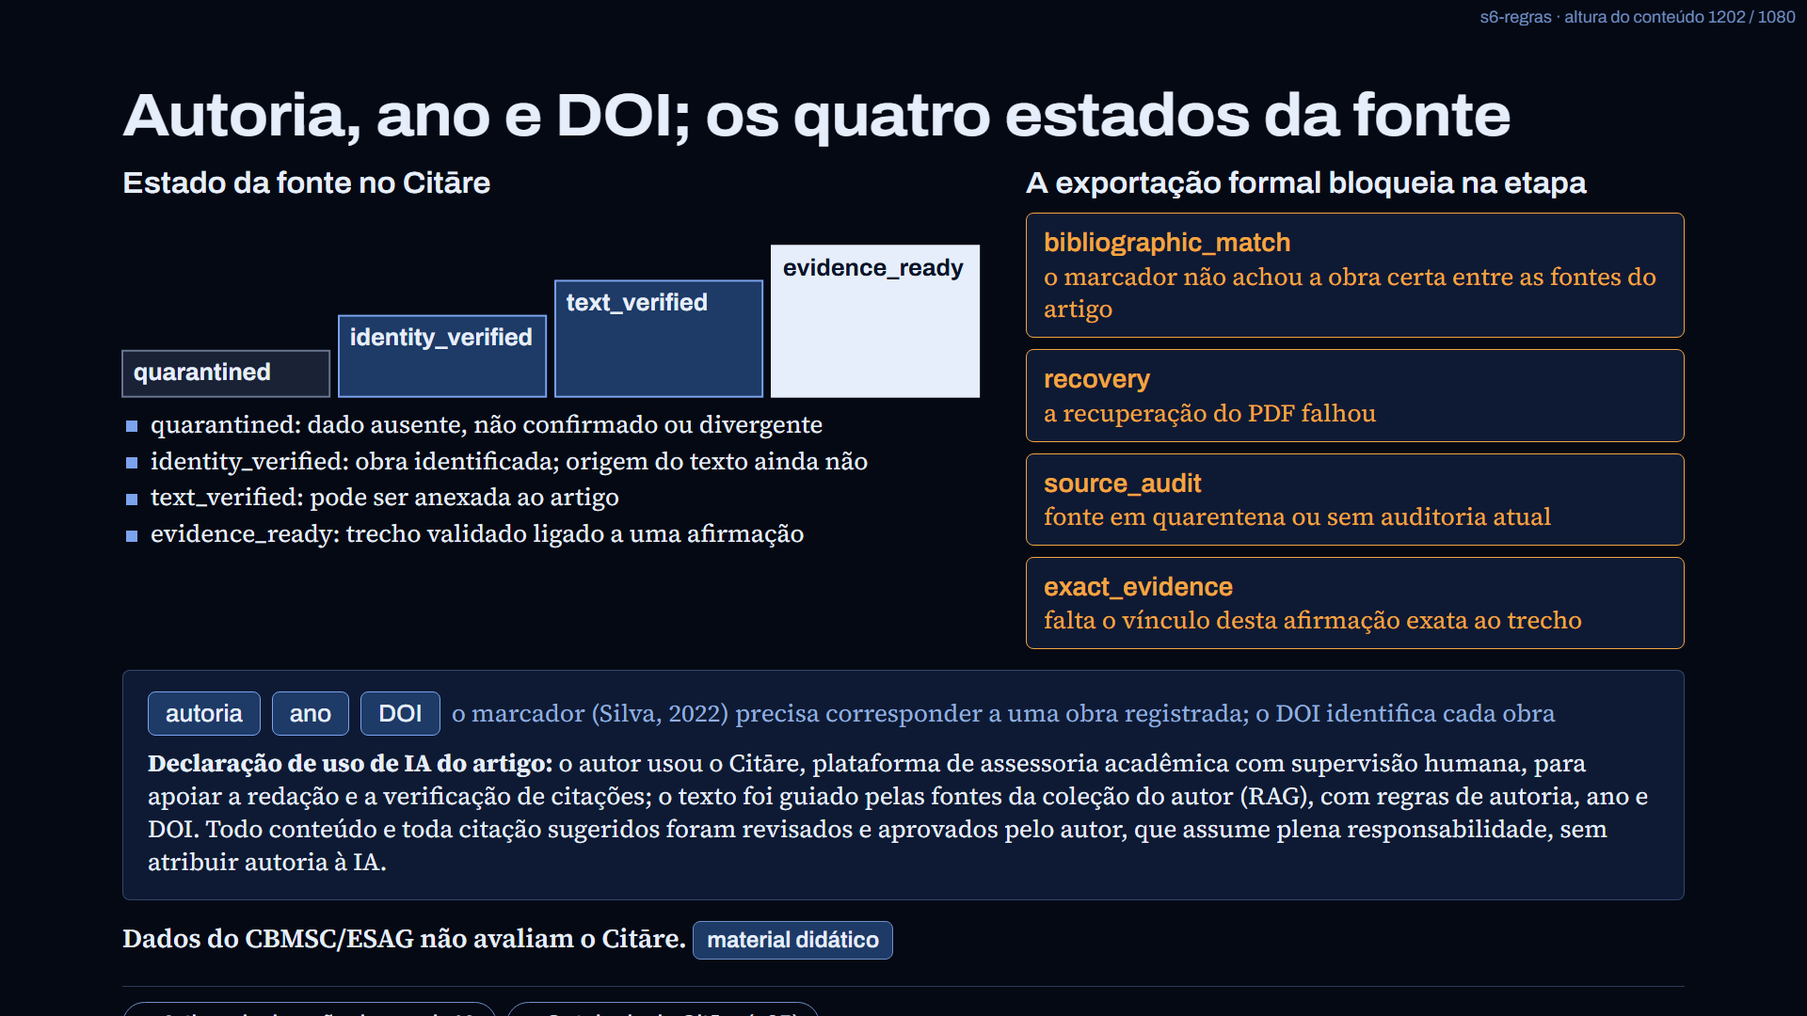
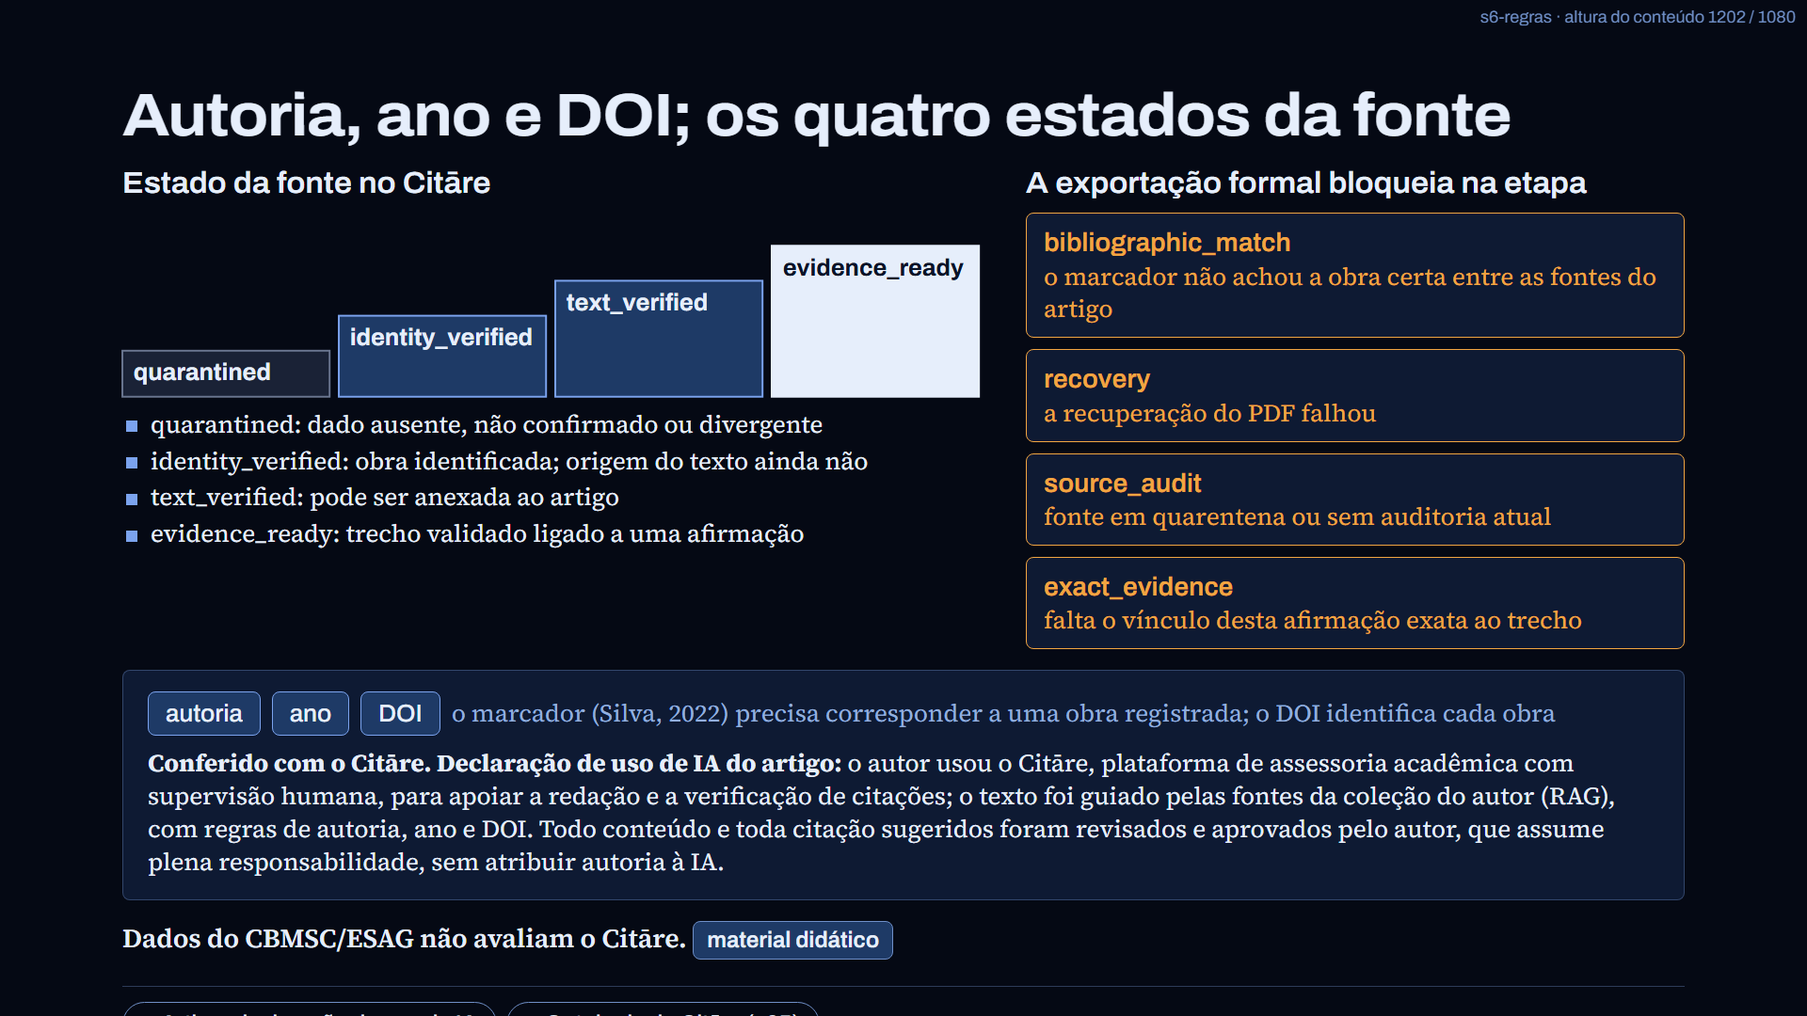
Painéis: quem corrigiu a cena 2b, método do arXiv (≈446), calendário ilustrativo, ponte CALAIS=harness vertical e reserva r1-respostas

Changed region(s): [[0.0625, 0.7333, 0.9062, 0.8556]]

diff --git a/web/paineis.js b/web/paineis.js
@@ -383,7 +383,7 @@
       ['Cena 2b: rascunho do modelo local', '<b>F ∧ F ∧ F</b>', '2 citações bloqueadas', '<span class="block">bloqueado (exit 2)</span>'],
       ['Laço local, rodada 1', '<b>F ∧ F ∧ F</b>', '3 citações bloqueadas', '<span class="block">bloqueado (exit 2)</span>'],
       ['Laço local, rodadas 2 e 3', '<b>F ∧ V ∧ V</b>', '3 e depois 1 citação bloqueada', '<span class="block">bloqueado (exit 2)</span>'],
-      { cls: 'dest', c: ['Cena 2b: após a correção', '<b>V ∧ V ∧ V</b>', 'todas as citações na ontologia', 'admissível; aguarda o humano'] }
+      { cls: 'dest', c: ['Cena 2b: após a correção (modelo de fronteira)', '<b>V ∧ V ∧ V</b>', 'todas as citações na ontologia', 'admissível; aguarda o humano'] }
     ]) +
     foot([F('art-eq', 'Artigo: Equação 2'), F('hnv-cena2b', 'Cena 2b'), F('hnv-laco', 'Laço local')],
       'Valores E, N e T lidos dos logs reais de 25/10/2026 (hnv-demo). Bloqueio exige falha em ao menos um dos três.')
@@ -474,7 +474,7 @@
     '<div class="card"><h3>CBMSC</h3><p class="mut">processo público-operacional</p></div>' +
     '<div class="card"><h3>ESAG/UDESC</h3><p class="mut">processo público-acadêmico de seleção</p></div>' +
     '<p>' + sel('exploratório') + '</p></div></div>' +
-    '<p class="nota">A demonstração mostra que as partes funcionam juntas; efeito e comparação com outras abordagens exigem estudo próprio.</p>' +
+    '<div class="card" style="border-color:var(--az)"><p style="font-size:28px"><b>CALAIS = harness vertical.</b> O artigo #160 não usa a palavra “harness”; em 2026, a engenharia de agentes passou a chamar assim o conjunto de regras e ferramentas em torno do modelo. ' + F('bockeler2026', 'Böckeler (2026)') + ' ' + F('galster2026', 'Galster et al. (2026)') + '</p></div>' +
     foot([F('art-arq', 'Artigo: Seções 1 e 3.1'), F('art-escopo', 'Artigo: escopo da evidência')], 'Definição dos três níveis conforme a Introdução do artigo.')
   );
 
@@ -568,7 +568,7 @@
       '<p><b>Ontologia:</b> “especificação explícita e formal de uma conceitualização compartilhada” (Studer, Benjamins e Fensel, 1998, a partir de Gruber, 1993).</p>' +
       '<p><b>T-box</b> (terminologia): as classes e as relações. Três grupos: Conteúdo acadêmico, Evidência e fonte, Controle.</p>' +
       '<p><b>A-box</b> (asserções): as instâncias e suas ligações, como Artigo 42 e Auditoria 7.</p></div></div>' +
-      '<p class="nota"><b>Dados do CBMSC/ESAG não avaliam o Citāre.</b> Instâncias do desenho são fictícias, para ensinar a leitura. ' + sel('material didático') + '</p>' +
+      '<p class="nota"><b>O artigo foi redigido e conferido com o Citāre, com revisão humana.</b> Dados do CBMSC/ESAG não avaliam o Citāre. Instâncias do desenho são fictícias. ' + sel('material didático') + '</p>' +
       foot([F('ont-citare', 'Ontologia do Citāre (v05)'), F('studer1998', 'Studer et al. (1998)'), F('art-citare', 'Artigo: declaração de uso')],
         'Atividade 1 de Desenvolvimento de Ontologias, v05 (30/09/2026). O desenho reproduz a cadeia e a árvore da atividade; as classes intermediárias são didáticas.')
     );
@@ -592,7 +592,7 @@
       return '<div class="card block" style="padding:12px 18px"><p class="block sans" style="font-weight:600;font-size:28px">' + b[0] + '</p><p style="font-size:26px">' + b[1] + '</p></div>';
     }).join('') + '</div></div>' +
     '<div class="card" style="display:grid;gap:12px"><div style="display:flex;gap:12px;flex-wrap:wrap;align-items:center"><span class="chip ok">autoria</span><span class="chip ok">ano</span><span class="chip ok">DOI</span><span class="mut" style="font-size:26px">o marcador (Silva, 2022) precisa corresponder a uma obra registrada; o DOI identifica cada obra</span></div>' +
-    '<p style="font-size:26px"><b>Declaração de uso de IA do artigo:</b> o autor usou o Citāre, plataforma de assessoria acadêmica com supervisão humana, para apoiar a redação e a verificação de citações; o texto foi guiado pelas fontes da coleção do autor (RAG), com regras de autoria, ano e DOI. Todo conteúdo e toda citação sugeridos foram revisados e aprovados pelo autor, que assume plena responsabilidade, sem atribuir autoria à IA.</p></div>' +
+    '<p style="font-size:26px"><b>Conferido com o Citāre. Declaração de uso de IA do artigo:</b> o autor usou o Citāre, plataforma de assessoria acadêmica com supervisão humana, para apoiar a redação e a verificação de citações; o texto foi guiado pelas fontes da coleção do autor (RAG), com regras de autoria, ano e DOI. Todo conteúdo e toda citação sugeridos foram revisados e aprovados pelo autor, que assume plena responsabilidade, sem atribuir autoria à IA.</p></div>' +
     '<p class="nota"><b>Dados do CBMSC/ESAG não avaliam o Citāre.</b> ' + sel('material didático') + '</p>' +
     foot([F('art-citare', 'Artigo: declaração de uso de IA'), F('ont-citare', 'Ontologia do Citāre (v05)')],
       'Declaração traduzida do artigo (seção “AI use disclosure”). Estados e etapas: Atividade de Ontologia v05.')
@@ -633,9 +633,10 @@
       T('CBMSC: o que os logs de envio mostram', 'Janeiro a agosto de 2026, artefato de envio de mensagens.') +
       '<div class="cols c3" style="align-items:end">' +
       '<div><span class="big" style="font-size:96px">' + cnt(9054, 'k') + '</span><p class="mut">registros de envio</p></div>' +
-      '<div><span class="big" style="font-size:96px">' + cnt(191) + '</span><p class="mut">dias, de 28/01 a 07/08/2026</p></div>' +
+      '<div><span class="big" style="font-size:96px">~' + cnt(191) + '</span><p class="mut">dias, de 28/01 a 07/08/2026</p></div>' +
       '<div><span class="big" style="font-size:96px;color:#C2CBDD">' + cnt(2813, 'k') + '</span><p class="mut">envios sem sucesso</p></div></div>' +
-      svg(1660, 104, cells + labs + '<text class="m" x="0" y="92" style="font-size:26px;display:none"></text>', 'Calendário de cerca de 191 dias, de 28 de janeiro a 7 de agosto de 2026') +
+      svg(1660, 104, cells + labs, 'Calendário ilustrativo de cerca de 191 dias, de 28 de janeiro a 7 de agosto de 2026') +
+      '<p class="mut" style="font-size:26px;margin-top:-10px">Calendário ilustrativo: só o total do período (9.054 em ~191 dias); não há dado por dia. ' + sel('ilustrativo', 'sol') + '</p>' +
       '<div style="display:grid;gap:10px"><div class="bar-trk" style="height:50px"><i class="bar aco" style="left:0;width:' + (100 - seg * 100).toFixed(2) + '%;--d:.5s"></i>' +
       '<i class="bar cz" style="left:' + (100 - seg * 100).toFixed(2) + '%;width:' + (seg * 100).toFixed(2) + '%;--d:1.2s"></i></div>' +
       '<p class="mut" style="font-size:26px">Cinza: 2.813 sem sucesso (' + pct(seg) + '% dos 9.054). Azul: os demais 6.241 (diferença, cálculo do autor). Sem sucesso não é bloqueio.</p></div>' +
@@ -645,7 +646,7 @@
       '<div class="card"><span class="val">' + cnt(1018, 'k') + '</span><p style="font-size:26px">erros de aquecimento</p></div>' +
       '<p class="nota" style="font-size:27px"><b>Processos diferentes, não somados.</b> Nenhum evento classificado como banimento ou restrição de linha pela Meta foi localizado. Isso não é risco zero: não há campo exclusivo para detectar todo banimento.</p></div>' +
       '<p>' + sel('exploratório, SC') + '</p>' +
-      foot([F('art-logs', 'Artigo: logs do CBMSC'), F('art-escopo', 'Artigo: escopo')], 'Seção 4.1 do artigo. Calendário sem dado por dia: o artigo informa só o total do período.')
+      foot([F('art-logs', 'Artigo: logs do CBMSC'), F('art-escopo', 'Artigo: escopo')], 'Seção 4.1 do artigo: de 28/01 a 07/08 são 192 dias contando as duas pontas; o artigo diz “aproximadamente 191”.')
     );
   })();
 
@@ -660,7 +661,7 @@
       dots += '<circle class="fl pp" style="--d:' + (0.4 + i * .25) + 's" cx="' + X(s) + '" cy="' + (110 - (seen[k] - 1) * 30) + '" r="13"/>';
     });
     P['s7-nasa'] = body(
-      T('NASA-TLX bruto: seis registros de tarefas', 'Escala de 0 a 100: quanto menor, menor a carga percebida.') +
+      T('NASA-TLX bruto: seis registros de tarefas', 'TLX bruto = (1/6) Σ s<sub>i</sub>, sobre as seis dimensões (0 a 100); quanto menor, menor a carga percebida.') +
       svg(1660, 200,
         ticks + '<line class="ln" x1="40" y1="150" x2="1620" y2="150"/>' + dots +
         '<line class="ln az dr" pathLength="1" style="--d:1.9s" x1="' + X(6.94) + '" y1="40" x2="' + X(6.94) + '" y2="150"/>' +
@@ -733,7 +734,7 @@
       '<div class="card"><h3>Rodada 2</h3><p style="display:grid;gap:8px;justify-items:start"><span class="chip err">art. 37, XXXIII</span><span class="chip err">Decreto 4.653/2002</span><span class="chip">decisão do STJ sem número</span></p></div>' +
       '<div class="card"><h3>Rodada 3</h3><p style="display:grid;gap:8px;justify-items:start"><span class="chip err">art. 37, XXI, “proíbe o nepotismo”</span><span class="chip">Lei 8.112/1990</span><span class="chip">ADI 2.958</span></p></div></div>' +
       '<p class="nota"><b>Em âmbar:</b> inexistente ou com conteúdo falso. <b>Em cinza-azulado:</b> real, mas sem base ou não conferível. XXXIII só aparece nas rodadas 1 e 2.</p>' +
-      foot([F('hnv-cena1', 'Checagem manual (cena 1)'), F('cf-art37', 'Constituição, art. 37')], 'Fontes: checagem manual de 25/10/2026 e texto do art. 37 no Planalto. Modelo local de 3 bilhões de parâmetros, sem harness.')
+      foot([F('hnv-cena1', 'Checagem manual (cena 1)'), F('cf-art37', 'Constituição, art. 37')], 'Fontes: checagem manual de 25/10/2026 e texto do art. 37 no Planalto. Modelo local 3B (qwen2.5:3b), sem harness; ele errou nas três rodadas.')
     );
   })();
 
@@ -773,10 +774,10 @@
       svg(468, 150, sq, 'Dezoito quadrados: 3 normas, 12 dispositivos, 1 súmula e 2 precedentes') +
       '<p style="font-size:27px">3 normas · 12 dispositivos · 1 súmula · 2 precedentes ' + sel('pendente de validação') + '</p>' +
       '<h3>Limites</h3><ul class="pt-list" style="gap:8px">' +
-      '<li style="font-size:28px"><b>Confere citações, não raciocínio.</b></li>' +
-      '<li style="font-size:28px"><b>Bloqueado não é falso:</b> a Resolução 7/2005 existe, mas está fora da ontologia.</li>' +
-      '<li style="font-size:28px">Referência vaga (“uma decisão do STJ”) escapa.</li>' +
-      '<li style="font-size:28px">A cena 2b é induzida: o rascunho do modelo local foi entregue ao agente.</li></ul></div></div>' +
+      '<li style="font-size:26px"><b>Confere citações, não raciocínio.</b></li>' +
+      '<li style="font-size:26px"><b>Bloqueado não é falso:</b> a Resolução 7/2005 existe, mas está fora da ontologia.</li>' +
+      '<li style="font-size:26px">Referência vaga (“uma decisão do STJ”) escapa.</li>' +
+      '<li style="font-size:26px"><b>Quem corrigiu:</b> o 3B errou; na cena 2b (induzida), um modelo de fronteira (Sonnet, via Claude Code) corrigiu no mesmo harness. O 3B sozinho: 3, 3 e 1 bloqueadas; não liberado.</li></ul></div></div>' +
       foot([F('hnv-readme', 'README da demonstração'), F('hnv-ontologia', 'Ontologia (18 fontes)'), F('hnv-laco', 'Laço local')],
         'Laço local: citações bloqueadas 3, 3 e 1; encerrou como “bloqueado após o limite de rodadas”. Fluxo conforme o README (25/10/2026).')
     );
@@ -800,30 +801,30 @@
       ['Decreto 7.203/2010, art. 2º, III', 'DEC7203_art2_III', 'ok']
     ]) + '</div></div>' +
     foot([F('hnv-cena2b', 'Log real (cena 2b)'), F('prov-dm', 'W3C PROV-DM'), F('hnv-ontologia', 'Ontologia (18 fontes)')],
-      'Dados de logs/prov-20261025T192704-230.json. A máquina declara “admissível”; só a pessoa libera.')
+      'Dados de logs/prov-20261025T192704-230.json: rascunho do modelo local 3B, corrigido por um modelo de fronteira (Sonnet, via Claude Code) em cena induzida. A máquina declara “admissível”; só a pessoa libera.')
   );
 
   /* =========================================================
      SLIDE 9
      ========================================================= */
   (function () {
-    function row(label, v, max, cls, d, note) {
-      return '<div class="bar-row" style="grid-template-columns:330px 1fr 110px"><span style="font-size:27px">' + label + '</span>' +
+    function row(label, v, max, cls, d, pre) {
+      return '<div class="bar-row" style="grid-template-columns:420px 1fr 130px"><span style="font-size:26px">' + label + '</span>' +
         '<div class="bar-trk" style="height:42px"><i class="bar ' + cls + '" style="left:0;width:' + (v / max * 100).toFixed(1) + '%;--d:' + d + 's"></i></div>' +
-        '<span class="val" style="font-size:34px">' + cnt(v) + '</span></div>';
+        '<span class="val" style="font-size:34px">' + (pre || '') + cnt(v) + '</span></div>';
     }
     P['s9-metodo'] = body(
       T('Como foi feita a contagem de “harness” no arXiv', 'Contagem do autor em 25/10/2026, pela API pública; não é revisão sistemática.') +
-      '<div class="cols" style="grid-template-columns:640px 1fr;gap:44px;align-items:start">' +
-      '<ol class="pt-list" style="gap:16px;list-style:none">' +
-      '<li><b>1. Busca:</b> título com “harness”, na API do arXiv.</li>' +
-      '<li><b>2. Filtro:</b> só a palavra exata (a busca também traz “harnessing”).</li>' +
-      '<li><b>3. Sentido:</b> 2025 conferido título a título; 2026 por amostra de 25 títulos, todos de agentes.</li></ol>' +
-      '<div style="display:grid;gap:22px">' +
-      '<div style="display:grid;gap:10px"><h3>2025</h3>' + row('busca no título', 23, 500, 'cz', .3) + row('palavra exata', 4, 500, 'aco', .6) + row('sentido de agente', 3, 500, '', .9) + '</div>' +
-      '<div style="display:grid;gap:10px"><h3>2026 (até 25/10) ' + sel('contagem do autor') + '</h3>' + row('busca no título', 498, 500, 'cz', 1.2) + row('palavra exata', 446, 500, 'aco', 1.5) + row('sentido de agente', 446, 500, '', 1.8) + '</div>' +
-      '<p class="nota" style="font-size:26px">Em 2023 e 2024, a palavra exata não aparece. 2026 é parcial.</p></div></div>' +
-      foot([F('arxiv-count', 'Contagem do autor (arXiv)')], 'Consulta: ti:harness (e abs:agent); contagens feitas em 25/10/2026. Número de 2026 depende de a amostra de 25 títulos representar o conjunto.')
+      '<div class="cols" style="grid-template-columns:560px 1fr;gap:40px;align-items:start">' +
+      '<ol class="pt-list" style="gap:14px;list-style:none">' +
+      '<li><b>1. Busca:</b> título com “harness” e <b>agent</b> no resumo (<i>ti:harness AND abs:agent</i>).</li>' +
+      '<li><b>2. Filtro:</b> “harness” ou “harnesses” no título; “harnessing” fica de fora.</li>' +
+      '<li><b>3. Sentido:</b> 2025 conferido título a título (3 de 4). 2026: o descarte foi <b>estimado</b> por amostra de 25 títulos, todos de agentes; não foi título a título.</li></ol>' +
+      '<div style="display:grid;gap:20px">' +
+      '<div style="display:grid;gap:8px"><h3>2025</h3>' + row('título com harness (inclui harnessing)', 23, 500, 'cz', .3) + row('harness ou harnesses', 4, 500, 'aco', .6) + row('sentido de agente, conferido', 3, 500, '', .9) + '</div>' +
+      '<div style="display:grid;gap:8px"><h3>2026, até 25/10 ' + sel('contagem do autor') + ' ' + sel('≈ estimativa', 'sol') + '</h3>' + row('título com harness (inclui harnessing)', 498, 500, 'cz', 1.2) + row('harness ou harnesses', 446, 500, 'aco', 1.5) + row('sentido de agente, estimado', 446, 500, '', 1.8, '≈') + '</div>' +
+      '<p class="nota" style="font-size:26px">Só a forma singular “harness” dá 362 em 2026 (reprodução do avaliador). Em 2023 e 2024 não há ocorrência. 2026 é parcial.</p></div></div>' +
+      foot([F('arxiv-count', 'Contagem do autor (arXiv)')], 'Consulta ti:harness AND abs:agent em 25/10/2026. O número de 2026 (≈446) supõe que a amostra de 25 títulos represente o conjunto.')
     );
   })();
 
@@ -851,7 +852,7 @@
   );
 
   P['s9-contexto'] = body(
-    T('Contexto: do investimento ao harness') +
+    T('Contexto de reserva: do investimento ao harness ' + sel('contexto, reserva', 'sol')) +
     '<div class="cols" style="grid-template-columns:1fr 1fr;gap:56px;align-items:center">' +
     '<div style="display:grid;gap:14px"><h3>Capex de Microsoft, Alphabet, Amazon e Meta ' + sel('previsão, imprensa') + '</h3>' +
     '<div style="display:grid;gap:6px"><p>2025 · cerca de US$ 410 bi</p><div class="bar-trk" style="height:48px"><i class="bar" style="left:0;width:' + (410 / 800 * 100).toFixed(1) + '%;--d:.3s"></i></div></div>' +
@@ -986,6 +987,27 @@
     }).join('') + '</div>' +
     '<p>' + sel('pendente de validação') + ' ' + sel('hipótese', 'sol') + '</p>' +
     foot([F('art-escopo', 'Artigo: escopo'), F('hnv-ontologia', 'Ontologia (18 fontes)')], 'Limites conforme o artigo (Seções 3.2, 4.2 e 5) e o README da demonstração.')
+  );
+
+
+  /* =========================================================
+     RESERVA R1: perguntas prováveis e respostas prontas
+     ========================================================= */
+  P['r1-respostas'] = body(
+    T('Perguntas prováveis e respostas prontas ' + sel('reserva', 'sol')) +
+    '<div style="column-count:2;column-gap:22px">' +
+    [
+      ['Quem corrigiu o parecer foi o modelo pequeno?', 'Não. O 3B errou; um modelo de fronteira (Sonnet, via Claude Code), no mesmo harness, corrigiu (cena induzida). O 3B sozinho: 3, 3 e 1 bloqueadas; não liberado. A garantia vem da arquitetura.', [['hnv-cena2b', 'Cena 2b'], ['hnv-laco', 'Laço local']]],
+      ['Seu artigo não fala em harness. O que você apresenta?', 'O artigo propõe o CALAIS: evidência, norma, rastro e humano antes da liberação. Em 2026, a engenharia de agentes chama esse conjunto de harness. O HNV é hipótese, não testada.', [['art-arq', 'Artigo: arquitetura'], ['bockeler2026', 'Böckeler (2026)']]],
+      ['Isso não é só RAG?', 'RAG recupera, mas não confere. Aqui um hook confere cada citação na ontologia e devolve o parecer. Em preprints, RAG jurídico erra 17–33%. ' + sel('preprint'), [['magesh', 'Magesh et al. (2025)'], ['hnv-cena2b', 'Cena 2b']]],
+      ['Bloquear o que está fora da ontologia não engessa?', 'Gera falso positivo, e isso é declarado: bloqueado não é falso (a Resolução 7/2005 existe, fora da ontologia). O custo é manter a ontologia com o especialista. ' + sel('pendente de validação'), [['hnv-laco', 'Laço local'], ['hnv-ontologia', 'Ontologia (18 fontes)']]],
+      ['Seis registros NASA-TLX provam alguma coisa?', 'Não provam ganho: são tarefas, não pessoas, e cinco vêm da mesma conta. Mostram os componentes juntos; para medir ganho, o estudo pareado.', [['art-nasa', 'Artigo: Tabela 5'], ['art-escopo', 'Artigo: escopo']]]
+    ].map(function (q, i) {
+      return '<div class="card ri" style="--d:' + (0.15 + i * .15) + 's;display:grid;gap:8px;break-inside:avoid;margin-bottom:22px"><h3 style="font-size:28px">' + (i + 1) + '. ' + q[0] + '</h3>' +
+        '<p style="font-size:26px;line-height:1.28">' + q[1] + '</p><div class="fontes">' + q[2].map(function (f) { return F(f[0], f[1]); }).join('') + '</div></div>';
+    }).join('') +
+    '</div>' +
+    '<p class="cred" style="font-size:18px;color:var(--mut)">Respostas preparadas a partir da avaliação independente do deck (27/10/2026). Reserva: não abrir na fala principal.</p>'
   );
 
   /* =========================================================

diff --git a/web/fontes.js b/web/fontes.js
@@ -43,16 +43,16 @@ window.HNV_FONTES = {
   "status": "confirmado no artigo"
  },
  "arxiv-count": {
-  "afirmacao": "3 trabalhos em 2025 e 446 em 2026 (até 25/10) com 'harness' no título e sentido de agente",
+  "afirmacao": "≈446 trabalhos em 2026 (até 25/10) com harness ou harnesses no título e agent no resumo (consulta ti:harness AND abs:agent); 3 em 2025, conferidos título a título. O descarte de 2026 foi estimado por amostra de 25 títulos, não título a título; só a forma singular dá 362",
   "fonte": "Contagem do autor na API do arXiv; 2025 conferido título a título, 2026 amostra de 25 títulos",
   "url": "http://export.arxiv.org/api/query?search_query=ti:harness",
-  "status": "contagem própria"
+  "status": "contagem própria (2026 estimado por amostra)"
  },
  "cmu": {
   "afirmacao": "Modelo pequeno com harness recupera 89,7% do desempenho do modelo grande a 4% do custo",
   "fonte": "Yang, Kästner et al. (2026), Better Harnesses, Smaller Models",
   "url": "https://arxiv.org/abs/2607.08938",
-  "status": "confirmado"
+  "status": "preprint (frase do resumo conferida)"
  },
  "capex": {
   "afirmacao": "Capex de Microsoft, Alphabet, Amazon e Meta: cerca de US$ 410 bi (2025) e cerca de US$ 725 bi (2026, previsão)",
@@ -139,8 +139,8 @@ window.HNV_FONTES = {
   "status": "confirmado nos logs"
  },
  "hnv-cena2b": {
-  "afirmacao": "Cena 2b, com harness: o hook deu exit 2 (BLOQUEIO) no rascunho com citação fabricada; o modelo corrigiu; o hook deu OK; parecer aguardando aprovação humana. Cena induzida: o rascunho da cena 1 foi entregue ao agente",
-  "fonte": "hnv-demo, logs/cena2b/stream.jsonl e logs/prov-20261025T192704-230.json",
+  "afirmacao": "Cena 2b, com harness: o hook deu exit 2 (BLOQUEIO) no rascunho do modelo local 3B (qwen2.5:3b) com citação fabricada; um modelo de fronteira (Sonnet, via Claude Code) corrigiu no mesmo harness e o hook deu OK; parecer aguardando aprovação humana. Cena INDUZIDA: o rascunho do 3B foi entregue ao Claude Code. O 3B sozinho, no laço local, não convergiu (3, 3 e 1 bloqueadas)",
+  "fonte": "hnv-demo, logs/cena2b/execucao.json (modelo_pedido: sonnet), stream.jsonl e prov-20261025T192704-230.json; README, linha da cena 2b",
   "url": "C:\\Users\\acala\\projetos\\hnv-demo\\logs\\cena2b\\stream.jsonl",
   "status": "confirmado nos logs"
  },

diff --git a/web/auditar_deck.py b/web/auditar_deck.py
@@ -30,7 +30,7 @@ OBRIGATORIOS = [
     "s5-fig1", "s5-calais", "s5-dsr", "s5-ponte", "s6-ontologia", "s6-regras", "s6-triplas",
     "s7-logs", "s7-nasa", "s7-tab4", "s8-replay", "s8-regua", "s8-portao", "s8-prov",
     "s9-metodo", "s9-cmu", "s9-contexto", "s10-aneis", "s10-nucleo", "s10-portao", "s11-desenho", "s11-limites",
-    "r3-referencias",
+    "r3-referencias", "r1-respostas",
 ]
 STATUS_SIMPLES = re.compile(r"^confirmado( no artigo| nos logs)?$")
 
